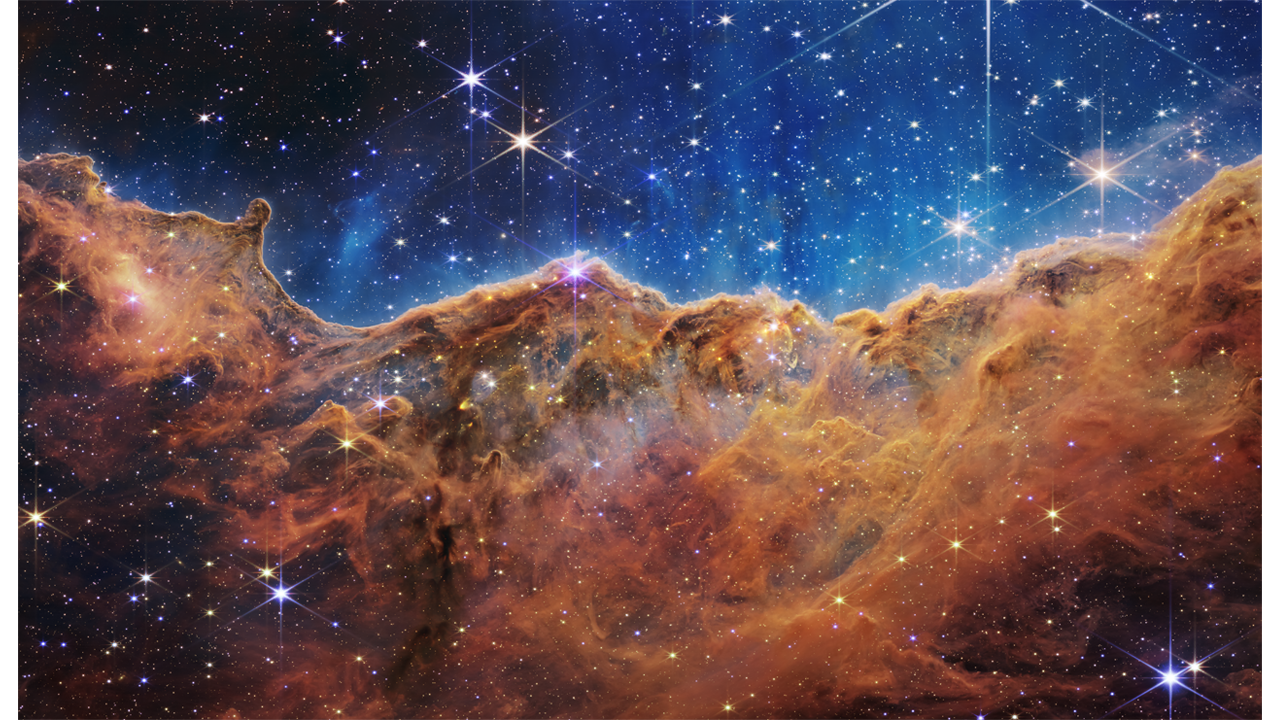
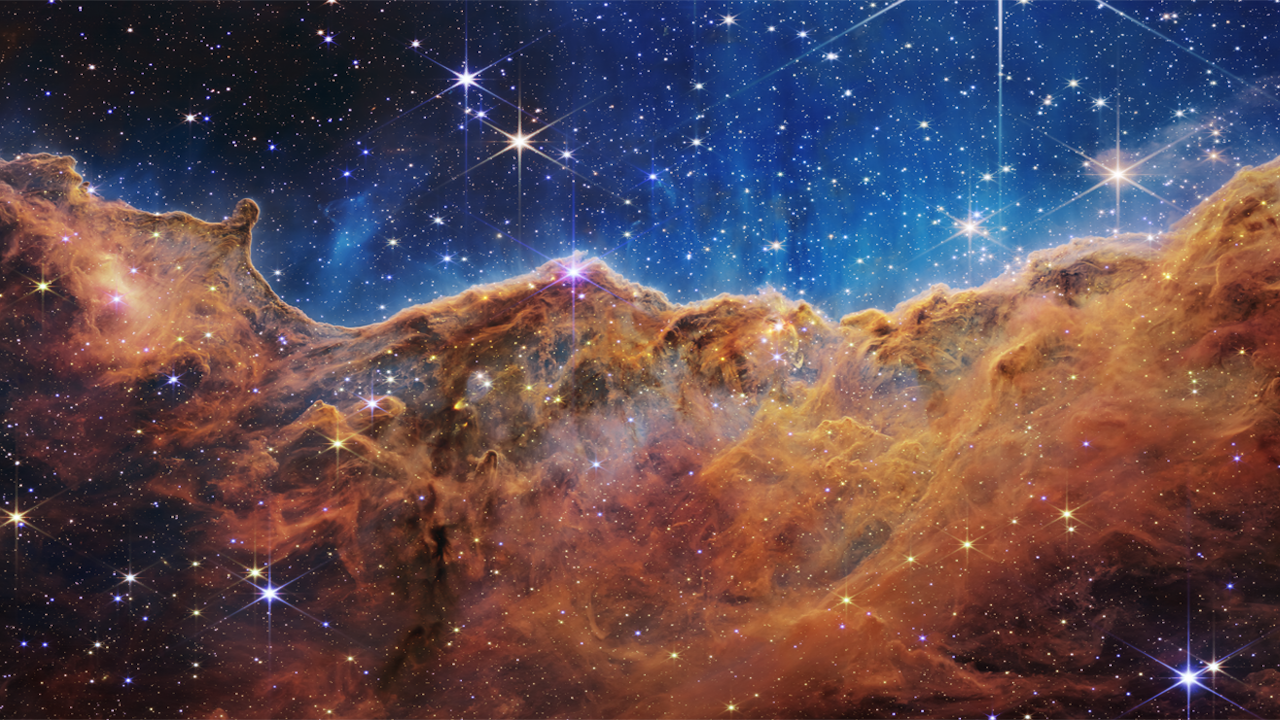
Added the space page. Scaled images Modified styles

diff --git a/articles/space.html b/articles/space.html
@@ -1,0 +1,151 @@
+<!DOCTYPE html>
+<html lang="en">
+<head>
+
+    <meta charset="utf-8"/>
+    <meta
+            name="author"
+            content="Riley Hutton, Matthew Peters, Satapas Tanachotpaisit and Wai yan moe hein"
+    />
+    <meta name="viewport" content="width=device-width, initial-scale=1"/>
+    <title>The Happy Computer</title>
+    <link
+            href="https://cdn.jsdelivr.net/npm/bootstrap@5.3.2/dist/css/bootstrap.min.css"
+            rel="stylesheet"
+            integrity="sha384-T3c6CoIi6uLrA9TneNEoa7RxnatzjcDSCmG1MXxSR1GAsXEV/Dwwykc2MPK8M2HN"
+            crossorigin="anonymous"
+    />
+    <title>Computing in Space</title>
+    <link href="../assets/styles/spacestyle.css" rel="stylesheet">
+
+</head>
+<body>
+<div class="container">
+    <header
+            class="d-flex flex-wrap justify-content-center py-3 mb-4 border-bottom d-lg-flex align-items-center"
+    >
+        <a
+                href="/"
+                class="d-flex align-items-center mb-3 mb-md-0 me-md-auto link-body-emphasis text-decoration-none"
+        >
+            <img src="../assets/images/logo.png" class="bi me-2" width="100px;"/>
+
+            <span class="fs-4">The Happy Computer</span>
+        </a>
+
+        <ul class="nav nav-pills">
+            <li class="nav-item">
+                <a href="/articles/space.html" class="nav-link">🏠 Home</a>
+            </li>
+            <li class="nav-item">
+                <a href="/" class="nav-link active" aria-current="page">🚀 Space</a>
+            </li>
+            <li class="nav-item">
+                <a href="/articles/marine.html" class="nav-link">🐬 Marine</a>
+            </li>
+            <li class="nav-item">
+                <a href="/articles/healthcare.html" class="nav-link"
+                >🏥 Healthcare</a>
+            </li>
+            <li class="nav-item">
+                <a href="/articles/images.html" class="nav-link">🌄 Images</a>
+            </li>
+        </ul>
+    </header>
+</div>
+
+
+<h1 class="header">Computing in Space</h1>
+
+
+<div id="carouselExampleCaptions" class="carousel slide">
+    <div class="carousel-indicators">
+        <button type="button" data-bs-target="#carouselExampleCaptions" data-bs-slide-to="0" class="active"
+                aria-current="true" aria-label="Slide 1"></button>
+        <button type="button" data-bs-target="#carouselExampleCaptions" data-bs-slide-to="1"
+                aria-label="Slide 2"></button>
+        <button type="button" data-bs-target="#carouselExampleCaptions" data-bs-slide-to="2"
+                aria-label="Slide 3"></button>
+    </div>
+    <div class="carousel-inner">
+        <div class="carousel-item active">
+            <img src="../assets/images/jwstCarinaNebula.png" class="d-block w-100" alt="...">
+            <div class="carousel-caption d-none d-md-block">
+                <h5>“Cosmic Cliffs” in the Carina Nebula</h5>
+                <p>This landscape of “mountains” and “valleys” speckled with glittering stars is actually the edge of a
+                    nearby, young, star-forming region.</p>
+            </div>
+        </div>
+        <div class="carousel-item">
+            <img src="../assets/images/jwstSouthernRingNebula.png" class="d-block w-100" alt="...">
+            <div class="carousel-caption d-none d-md-block">
+                <h5>Southern Ring Nebula</h5>
+                <p>Also known as NGC 3132, The Eight-Burst Nebula or Caldwell 74.</p>
+            </div>
+        </div>
+        <div class="carousel-item">
+            <img src="../assets/images/jwstStephansQuintet.png" class="d-block w-100" alt="...">
+            <div class="carousel-caption d-none d-md-block">
+                <h5>Stephan's Quintet</h5>
+                <p>Tight galaxy groups like this may have been more common in the early universe when superheated,
+                    infalling material may have fueled very energetic black holes.</p>
+            </div>
+        </div>
+    </div>
+    <button class="carousel-control-prev" type="button" data-bs-target="#carouselExampleCaptions" data-bs-slide="prev">
+        <span class="carousel-control-prev-icon" aria-hidden="true"></span>
+        <span class="visually-hidden">Previous</span>
+    </button>
+    <button class="carousel-control-next" type="button" data-bs-target="#carouselExampleCaptions" data-bs-slide="next">
+        <span class="carousel-control-next-icon" aria-hidden="true"></span>
+        <span class="visually-hidden">Next</span>
+    </button>
+</div>
+
+<h2 class="header">The Technology Behind Deep Space Exploration</h2>
+
+<div class="paragraph">
+    <p>
+        Space exploration has some amazing technology behind it with the capacity for it to trickle down into the hands
+        of
+        the public over the coming decades. Some of the most impressive technology from the last 30 years includes:
+    </p>
+    <ul>
+        <li>Hubble Space Telescope (1990)</li>
+        <li>Event Horizon Telescope (2009)</li>
+        <li>Curiosity Rover (2011)</li>
+        <li>Perseverance Rover (2021)</li>
+        <li>James Webb Space Telescope JWST (2021)</li>
+    </ul>
+    <p>
+        These rovers and telescopes are some of humanity's greatest creations and their benefits cannot be overstated.
+        Each of these has provided new and increasingly sophisticated information about the universe in which we
+        inhabit.
+    </p>
+    <div style="margin-left:2%">
+        <h4>Hubble Space Telescope</h4>
+        <p>
+            The Hubble Space Telescope, launched in 1990, has made numerous discoveries. Even though the telescope is
+            celebrating its 33rd birthday, it's still one of the most powerful telescopes, owing to its position outside
+            of Earth's atmosphere.
+        </p>
+        <p>
+            Hubble has helped us to:
+        </p>
+        <ul>
+            <li>Pin down the age of the universe to be around 13.8 billion years old.</li>
+            <li>Discovered two moons of Pluto, Nix and Hydra</li>
+            <li>Helped confirm the current value of the Hubble Constant, the rate of the universe expansion</li>
+            <li>Discovered that nearly all major galaxies are centered around a supermassive black hole.</li>
+        </ul>
+    </div>
+</div>
+
+<script src="https://cdn.jsdelivr.net/npm/@popperjs/core@2.11.8/dist/umd/popper.min.js"
+        integrity="sha384-I7E8VVD/ismYTF4hNIPjVp/Zjvgyol6VFvRkX/vR+Vc4jQkC+hVqc2pM8ODewa9r"
+        crossorigin="anonymous"></script>
+<script src="https://cdn.jsdelivr.net/npm/bootstrap@5.3.2/dist/js/bootstrap.min.js"
+        integrity="sha384-BBtl+eGJRgqQAUMxJ7pMwbEyER4l1g+O15P+16Ep7Q9Q+zqX6gSbd85u4mG4QzX+"
+        crossorigin="anonymous"></script>
+</body>
+</html>

diff --git a/assets/styles/spacestyle.css b/assets/styles/spacestyle.css
@@ -10,9 +10,13 @@
 
 /* Declare heights because of positioning of img element */
 .carousel-item {
-    height: 32rem;
+    height: 512px;
 }
 
-#header {
+.header {
+    margin: 1%
+}
+
+.paragraph {
     margin: 1%
 }
